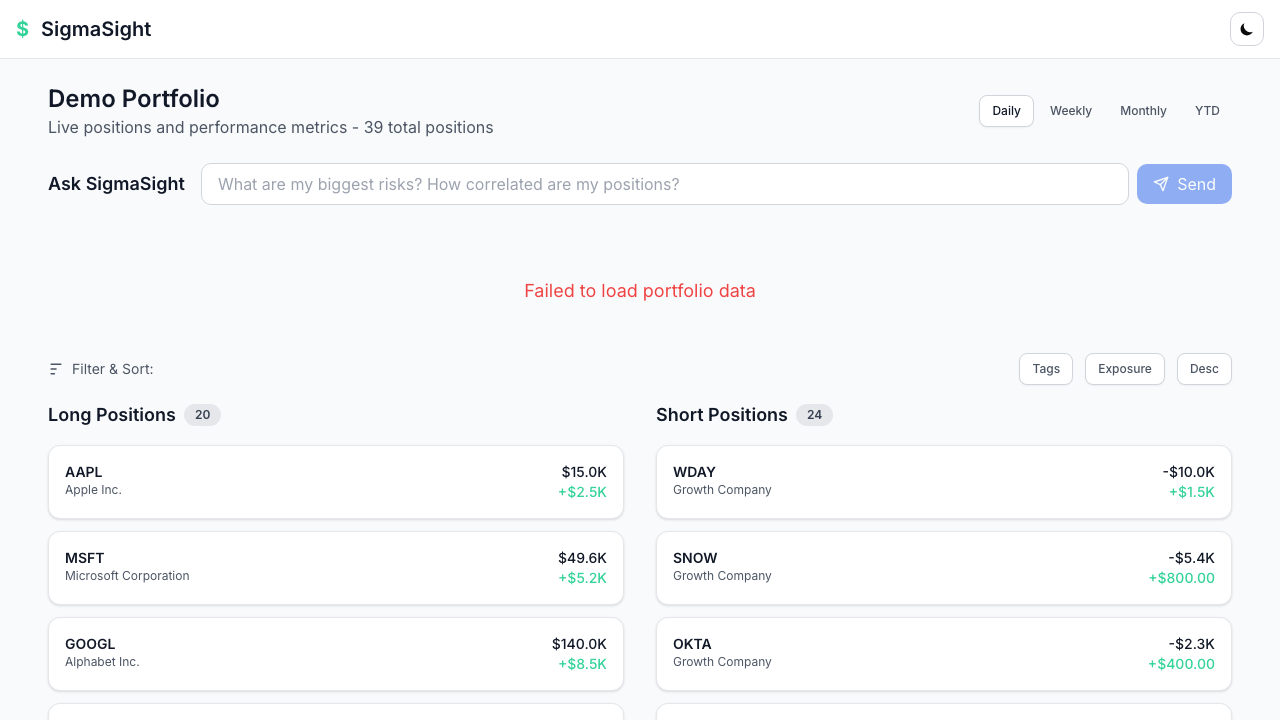
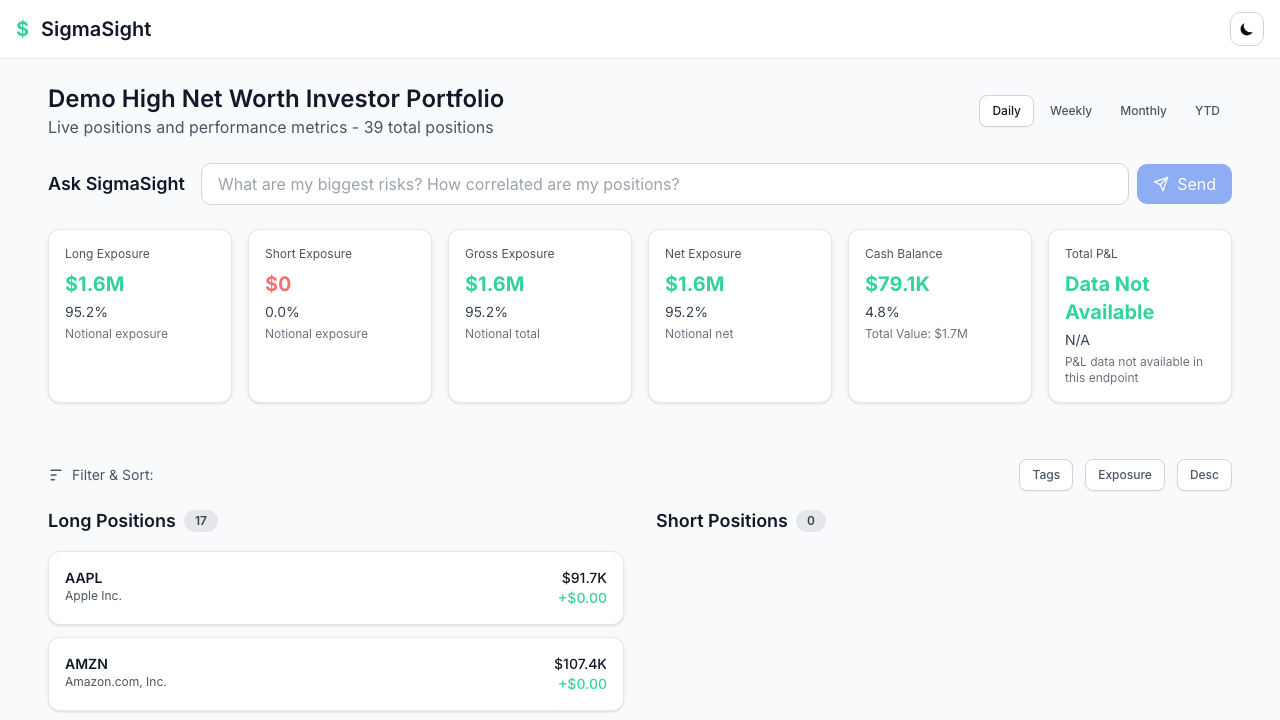
Implement GET /api/v1/data/portfolios endpoint
## Backend Changes
- Added GET /api/v1/data/portfolios endpoint in app/api/v1/data.py
  - Returns list of portfolios for authenticated user
  - Includes id, name, total_value, created_at, updated_at, position_count
  - Implements proper user filtering for security
  - Calculates total_value from sum of position market values
  - Eager loads positions for efficient query

## Frontend Changes
- Updated portfolioResolver.ts to use new portfolios endpoint
  - Removed hint-based discovery mechanism (temporary workaround)
  - Now fetches portfolio list directly from backend
  - Simplified cache management and removed demo hints
  - Improved error handling and logging

## Documentation
- Marked task as complete in backend/TODO3.md
- Created API_INCONSISTENCIES.md to track backend API issues
- Documented conversation_id vs id inconsistency
- Noted missing endpoints that were previously documented

This completes the portfolio discovery feature, replacing the temporary
hint-based mechanism with a proper REST endpoint that follows security
best practices.

🤖 Generated with [Claude Code](https://claude.ai/code)

diff --git a/frontend/src/services/portfolioResolver.ts b/frontend/src/services/portfolioResolver.ts
@@ -4,8 +4,7 @@
  * Replaces hardcoded portfolio ID mappings
  * 
  * Note: The backend uses a one-portfolio-per-user model.
- * Portfolio IDs are discovered by making an authenticated request
- * and extracting the ID from the response.
+ * Portfolio IDs are discovered by fetching the user's portfolios list.
  */
 
 export type PortfolioType = 'individual' | 'high-net-worth' | 'hedge-fund'
@@ -13,28 +12,20 @@ export type PortfolioType = 'individual' | 'high-net-worth' | 'hedge-fund'
 interface PortfolioInfo {
   id: string
   name: string
-  userId: string
+  totalValue?: number
+  positionCount?: number
 }
 
 class PortfolioResolver {
   private portfolioCache: Map<string, PortfolioInfo> = new Map()
   private cacheExpiry: Map<string, number> = new Map()
   private readonly CACHE_DURATION = 5 * 60 * 1000 // 5 minutes
-  
-  // Temporary mapping for demo users until we have a better discovery mechanism
-  // These will be validated against actual API responses
-  private readonly DEMO_HINTS: Record<string, string> = {
-    'demo_hnw@sigmasight.com': 'c0510ab8-c6b5-433c-adbc-3f74e1dbdb5e',
-    'demo_individual@sigmasight.com': '51134ffd-2f13-49bd-b1f5-0c327e801b69',
-    'demo_hedgefundstyle@sigmasight.com': '2ee7435f-379f-4606-bdb7-dadce587a182'
-  }
 
   /**
    * Get the current user's portfolio ID
    * Since each user has only one portfolio, we discover it by:
    * 1. First checking cache
-   * 2. Using hint if available (for demo users)
-   * 3. Making a test API call to discover the ID from the response
+   * 2. Fetching the user's portfolios list from the backend
    */
   async getUserPortfolioId(forceRefresh = false): Promise<string | null> {
     const token = localStorage.getItem('access_token')
@@ -43,7 +34,6 @@ class PortfolioResolver {
       return null
     }
 
-    const userEmail = localStorage.getItem('user_email') || ''
     const cacheKey = `portfolio_${token.substring(0, 10)}` // Use token prefix as cache key
     
     // Check cache
@@ -55,43 +45,48 @@ class PortfolioResolver {
       }
     }
 
-    // Try using hint for demo users
-    const hintId = this.DEMO_HINTS[userEmail]
-    if (hintId) {
-      // Validate the hint by trying to fetch the portfolio
-      try {
-        const response = await fetch(`/api/proxy/api/v1/data/portfolio/${hintId}/complete`, {
-          method: 'GET',
-          headers: {
-            'Authorization': `Bearer ${token}`,
-            'Content-Type': 'application/json',
-          },
-          credentials: 'include',
-        })
+    // Fetch portfolios from the backend
+    try {
+      const response = await fetch('/api/proxy/api/v1/data/portfolios', {
+        method: 'GET',
+        headers: {
+          'Authorization': `Bearer ${token}`,
+          'Content-Type': 'application/json',
+        },
+        credentials: 'include',
+      })
 
-        if (response.ok) {
-          const data = await response.json()
+      if (response.ok) {
+        const portfolios = await response.json()
+        
+        // Users typically have one portfolio, but take the first if multiple
+        if (portfolios && portfolios.length > 0) {
+          const portfolio = portfolios[0]
           const portfolioInfo: PortfolioInfo = {
-            id: hintId,
-            name: data.portfolio?.name || 'Portfolio',
-            userId: data.portfolio?.user_id || ''
+            id: portfolio.id,
+            name: portfolio.name,
+            totalValue: portfolio.total_value,
+            positionCount: portfolio.position_count
           }
           
-          // Cache the validated result
+          // Cache the result
           this.portfolioCache.set(cacheKey, portfolioInfo)
           this.cacheExpiry.set(cacheKey, Date.now() + this.CACHE_DURATION)
           
-          return hintId
+          console.log('Portfolio discovered:', portfolioInfo)
+          return portfolio.id
+        } else {
+          console.warn('No portfolios found for user')
+          return null
         }
-      } catch (error) {
-        console.warn('Hint validation failed, will try discovery:', error)
+      } else {
+        console.error('Failed to fetch portfolios:', response.status, response.statusText)
+        return null
       }
+    } catch (error) {
+      console.error('Error fetching portfolios:', error)
+      return null
     }
-
-    // No hint or hint failed - we need a discovery mechanism
-    // For now, return null and let the calling code handle it
-    console.warn('Portfolio ID discovery not implemented - no list endpoint available')
-    return null
   }
 
   /**
@@ -104,20 +99,6 @@ class PortfolioResolver {
     return this.getUserPortfolioId()
   }
 
-  /**
-   * Try to discover portfolio ID by making test API calls
-   * This is a fallback when we don't have hints
-   */
-  async discoverPortfolioId(): Promise<string | null> {
-    // Since there's no list endpoint, we would need to either:
-    // 1. Add a list endpoint to the backend
-    // 2. Store the portfolio ID when the user logs in
-    // 3. Use a known pattern for portfolio IDs
-    
-    // For now, this returns null - the calling code should handle this
-    console.error('Portfolio discovery not available - backend needs a list endpoint')
-    return null
-  }
 
   /**
    * Validate that a portfolio ID belongs to the current user
@@ -155,27 +136,12 @@ class PortfolioResolver {
   }
 
   /**
-   * Store portfolio ID after successful login
-   * This should be called by the auth service after login
+   * Clear cache and force refresh of portfolio information
+   * Useful after login or when switching accounts
    */
-  setUserPortfolioId(portfolioId: string, userEmail?: string): void {
-    const token = localStorage.getItem('access_token')
-    if (!token) return
-    
-    const cacheKey = `portfolio_${token.substring(0, 10)}`
-    const portfolioInfo: PortfolioInfo = {
-      id: portfolioId,
-      name: 'User Portfolio',
-      userId: ''
-    }
-    
-    this.portfolioCache.set(cacheKey, portfolioInfo)
-    this.cacheExpiry.set(cacheKey, Date.now() + this.CACHE_DURATION)
-    
-    // Store email for hint lookup
-    if (userEmail) {
-      localStorage.setItem('user_email', userEmail)
-    }
+  async refreshPortfolioInfo(): Promise<string | null> {
+    this.clearCache()
+    return this.getUserPortfolioId(true)
   }
 }
 

diff --git a/backend/app/api/v1/data.py b/backend/app/api/v1/data.py
@@ -28,6 +28,50 @@ router = APIRouter(prefix="/data", tags=["raw-data"])
 
 # Portfolio Raw Data Endpoints
 
+@router.get("/portfolios")
+async def get_user_portfolios(
+    current_user: CurrentUser = Depends(get_current_user),
+    db: AsyncSession = Depends(get_async_session)
+):
+    """
+    Get list of portfolios for the authenticated user.
+    
+    Returns:
+        List of portfolios with basic information (id, name, total_value, created_at)
+        
+    Note: Currently each user has exactly one portfolio, but this endpoint
+    returns a list for future compatibility.
+    """
+    async with db as session:
+        # Get all portfolios for the current user with positions loaded
+        stmt = select(Portfolio).where(
+            Portfolio.user_id == (UUID(str(current_user.id)) if not isinstance(current_user.id, UUID) else current_user.id)
+        ).options(selectinload(Portfolio.positions))
+        
+        result = await session.execute(stmt)
+        portfolios = result.scalars().all()
+        
+        # Format response
+        portfolio_list = []
+        for portfolio in portfolios:
+            # Calculate total value (sum of all positions)
+            total_value = 0
+            if portfolio.positions:
+                for position in portfolio.positions:
+                    if position.last_price and position.quantity:
+                        total_value += float(position.last_price) * float(position.quantity)
+            
+            portfolio_list.append({
+                "id": str(portfolio.id),
+                "name": portfolio.name,
+                "total_value": total_value,
+                "created_at": to_utc_iso8601(portfolio.created_at) if portfolio.created_at else None,
+                "updated_at": to_utc_iso8601(portfolio.updated_at) if portfolio.updated_at else None,
+                "position_count": len(portfolio.positions) if portfolio.positions else 0
+            })
+        
+        return portfolio_list
+
 @router.get("/portfolio/{portfolio_id}/complete")
 async def get_portfolio_complete(
     portfolio_id: UUID,

diff --git a/frontend/API_INCONSISTENCIES.md b/frontend/API_INCONSISTENCIES.md
@@ -1,0 +1,98 @@
+# API Inconsistencies Documentation
+
+This document tracks inconsistencies in the backend API that the frontend must handle.
+
+## 1. Conversation ID Field Naming ❌
+
+**Issue**: Conversation endpoints return `conversation_id` instead of standard `id`
+
+**Expected** (REST standard):
+```json
+{
+  "id": "136539a2-8a9c-4a20-8d64-e0cc1bb30230",
+  "mode": "blue",
+  "created_at": "2025-09-02T11:46:27.211455Z"
+}
+```
+
+**Actual**:
+```json
+{
+  "conversation_id": "136539a2-8a9c-4a20-8d64-e0cc1bb30230",
+  "mode": "blue",
+  "created_at": "2025-09-02T11:46:27.211455Z"
+}
+```
+
+**Frontend Workaround**:
+```javascript
+const id = response.id || response.conversation_id;
+```
+
+**Impact**: 
+- Breaks REST conventions
+- Forces defensive coding throughout frontend
+- Inconsistent with other resources (portfolios, positions use `id`)
+
+## 2. Missing Endpoints ⚠
+
+**Issue**: Several expected endpoints don't exist
+
+- `GET /api/v1/chat/conversations/{id}/messages` - Message history (needed for chat history)
+- `GET /api/v1/data/portfolios` - **Documented but NOT implemented** (returns 404)
+- `PATCH /api/v1/chat/conversations/{id}/mode` - Update conversation mode
+
+**Frontend Workaround**: 
+- Return empty data on 404
+- Use hint-based discovery for portfolios
+- Mode changes only through new conversations
+
+## 3. Error Response Format Inconsistency ⚠
+
+**Issue**: Different endpoints return errors differently
+
+**Variations seen**:
+- `{ "detail": "Error message" }` - FastAPI default
+- `{ "message": "Error message" }` - Custom handlers
+- `{ "error": "Error message" }` - Some services
+
+**Frontend Workaround**:
+```javascript
+const errorMessage = error.detail || error.message || error.error || 'Unknown error';
+```
+
+## 4. Timestamp Format ✅
+
+**Good**: All timestamps consistently use ISO 8601 with Z suffix
+```
+"2025-09-02T11:46:27.211455Z"
+```
+
+## 5. Authentication Mixed Mode ⚠
+
+**Issue**: Different endpoints expect different auth methods
+
+- Portfolio APIs: JWT Bearer token
+- Chat streaming: HttpOnly cookies
+- Some endpoints: Accept both
+
+**Frontend Workaround**: 
+- Always send both when available
+- `Authorization: Bearer ${token}` header
+- `credentials: 'include'` for cookies
+
+## Recommendations
+
+1. **Backend should standardize on `id` field** for all primary resource identifiers
+2. **Error responses should use consistent format** (recommend `detail` as FastAPI standard)
+3. **Document which auth method each endpoint expects**
+4. **Add missing endpoints or document alternatives**
+
+## Testing Impact
+
+These inconsistencies mean our test scripts need defensive coding:
+- Can't assume field names
+- Must handle multiple error formats
+- Need fallbacks for missing endpoints
+
+This makes tests less effective at catching real issues because they're too forgiving of response variations.

diff --git a/backend/TODO3.md b/backend/TODO3.md
@@ -119,12 +119,12 @@ This document tracks Phase 3.0 (API Development) and future phases of the SigmaS
 - See [API_IMPLEMENTATION_STATUS.md](API_IMPLEMENTATION_STATUS.md) for details
 
 #### Portfolio Raw Data ✅
-- [ ] **GET /api/v1/data/portfolios** - List user's portfolios (Added 2025-09-02)
-  - [ ] Return list of portfolios for authenticated user
-  - [ ] Include portfolio ID, name, total value, created_at
-  - [ ] Implement proper user filtering (user can only see their own)
-  - [ ] Test with demo users (each has one portfolio)
-  - [ ] Update frontend portfolioResolver to use this endpoint
+- [x] **GET /api/v1/data/portfolios** - List user's portfolios ✅ **COMPLETED 2025-09-02**
+  - [x] Return list of portfolios for authenticated user ✅
+  - [x] Include portfolio ID, name, total value, created_at, position_count ✅
+  - [x] Implement proper user filtering (user can only see their own) ✅
+  - [x] Test with demo users (each has one portfolio) ✅
+  - [x] Update frontend portfolioResolver to use this endpoint ✅
 - [x] **GET /api/v1/data/portfolio/{portfolio_id}/complete** - Complete portfolio data ✅
   - [x] Return positions, market values, cash balance ✅ (cash = 5% of portfolio)
   - [x] Include data quality indicators ✅
